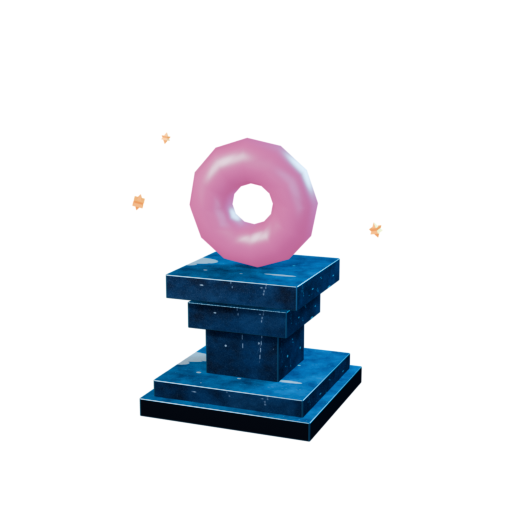
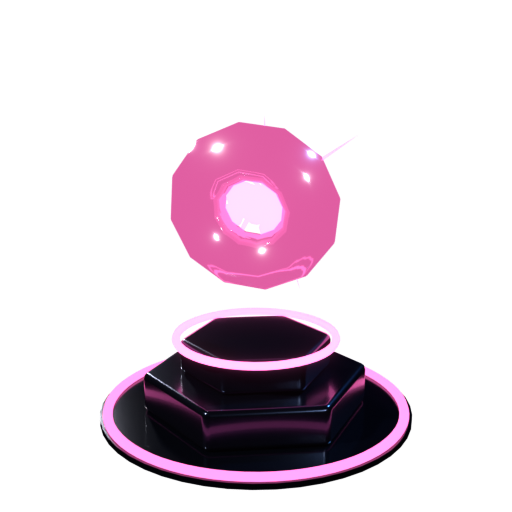
feat(ui): Hollywood-grade Blender assets + UX polish
- Re-rendered celebration/podium/trophy/fidget assets in Cycles GPU
  with glassy neon materials matching app theme (#22d3ee / #f472b6)
- Explosion burst fireworks behind winning mark
- Filled primary CTAs with press feedback across overlays
- Keep Hint/Undo visible but dimmed during AI inference (no layout shift)
- Fix AI stealing turn after background/foreground: null stale timer
  handles and guard runAITurn against human-turn resumes

diff --git a/mobile-rn/src/ui/screens/GameScreen.tsx b/mobile-rn/src/ui/screens/GameScreen.tsx
@@ -111,6 +111,7 @@ export function GameScreen() {
   const timerRef = useRef<ReturnType<typeof setTimeout> | null>(null)
   const configRef = useRef<GameConfig>(config)
   const appStateRef = useRef<AppStateStatus>(AppState.currentState)
+  const currentPlayerRef = useRef<Cell>(P1)
   const aiEpochRef = useRef(0)
   const inferenceInFlightRef = useRef(false)
   const resumeAiRef = useRef(false)
@@ -160,6 +161,12 @@ export function GameScreen() {
     [],
   )
 
+  // Mirror the turn into a ref so async AI paths can check it without
+  // closing over stale React state.
+  useEffect(() => {
+    currentPlayerRef.current = snap.currentPlayer
+  }, [snap.currentPlayer])
+
   // Let the winning line flash for ~1.6s, THEN reveal the result overlay.
   useEffect(() => {
     if (snap.over && !snap.demo) {
@@ -199,13 +206,18 @@ export function GameScreen() {
     }
     if (!boardRef.current || !engineRef.current) return
     if (overRef.current || thinkingRef.current) return
+    // Turn guard: never move while it's the human's turn (stale resume/timer).
+    if (!demoRef.current && currentPlayerRef.current === humanSideRef.current) return
     const epoch = aiEpochRef.current
     const aiSide: Cell = humanSideRef.current === P1 ? P2 : P1
     thinkingRef.current = true
     // Flash starts immediately (the cube breathes) — the human's mark already
     // rendered, and the inference runs in the background below.
     setSnap((prev) => (prev.thinking ? prev : { ...prev, thinking: true }))
-    if (timerRef.current) clearTimeout(timerRef.current)
+    if (timerRef.current) {
+      clearTimeout(timerRef.current)
+      timerRef.current = null
+    }
     const startedAt = Date.now()
     const board = boardRef.current
     if (!board) return
@@ -290,7 +302,10 @@ export function GameScreen() {
     if (overRef.current || !demoRef.current) return
     const side = turnRef.current
     const epoch = aiEpochRef.current
-    if (timerRef.current) clearTimeout(timerRef.current)
+    if (timerRef.current) {
+      clearTimeout(timerRef.current)
+      timerRef.current = null
+    }
     timerRef.current = setTimeout(async () => {
       try {
         if (appStateRef.current !== 'active' || epoch !== aiEpochRef.current) {
@@ -451,6 +466,7 @@ export function GameScreen() {
       thinkingRef.current = false
       demoRef.current = false
       movesRef.current = []
+      currentPlayerRef.current = P1 // X always opens
       setConfig(cfg)
       setEngineError(null)
       setPending(null)
@@ -548,8 +564,12 @@ export function GameScreen() {
     // Render the user's mark first, THEN start the AI inference — on larger
     // boards the render (instanced frame loop + pop-in) is the slow part, and
     // the placed mark should visibly land before the cube starts "thinking".
-    if (timerRef.current) clearTimeout(timerRef.current)
+    if (timerRef.current) {
+      clearTimeout(timerRef.current)
+      timerRef.current = null
+    }
     timerRef.current = setTimeout(() => {
+      timerRef.current = null
       runAITurn()
     }, 180)
   }, [pending, snap.currentPlayer, runAITurn, endGame])
@@ -581,7 +601,10 @@ export function GameScreen() {
     movesRef.current = hist.slice(0, lastHuman)
     aiSetBoard(board.cells)
     setNativeSnapshot(aiKnowledge(human))
-    if (timerRef.current) clearTimeout(timerRef.current)
+    if (timerRef.current) {
+      clearTimeout(timerRef.current)
+      timerRef.current = null
+    }
     overRef.current = false
     thinkingRef.current = false
     setPending(null)
@@ -710,14 +733,26 @@ const showHowTo = useCallback(
       {!snap.demo && !menuVisible && (
         <View style={[styles.bottomBar, { paddingBottom: insets.bottom }]}>
           <View style={styles.bottomActions}>
-            {!snap.over && snap.currentPlayer === config.humanSide && (
-              <Pressable onPress={onHint} style={[styles.iconBtn, styles.iconBtnHint]} hitSlop={8} testID="hint-btn">
-                <Text style={styles.iconBtnHintText}>Hint</Text>
+            {!snap.over && (
+              <Pressable
+                onPress={onHint}
+                disabled={!isHumanTurn}
+                style={[styles.iconBtn, styles.iconBtnHint, !isHumanTurn && styles.iconBtnDisabled]}
+                hitSlop={8}
+                testID="hint-btn"
+              >
+                <Text style={[styles.iconBtnHintText, !isHumanTurn && styles.iconBtnTextDisabled]}>Hint</Text>
               </Pressable>
             )}
-            {!snap.thinking && snap.movesPlayed.length > 0 && (
-              <Pressable onPress={onUndo} style={styles.iconBtn} hitSlop={8} testID="undo-btn">
-                <Text style={styles.iconBtnText}>Undo</Text>
+            {snap.movesPlayed.length > 0 && (
+              <Pressable
+                onPress={onUndo}
+                disabled={snap.thinking}
+                style={[styles.iconBtn, snap.thinking && styles.iconBtnDisabled]}
+                hitSlop={8}
+                testID="undo-btn"
+              >
+                <Text style={[styles.iconBtnText, snap.thinking && styles.iconBtnTextDisabled]}>Undo</Text>
               </Pressable>
             )}
             <Pressable onPress={openMenu} style={styles.iconBtn} hitSlop={8} testID="new-game-btn">
@@ -862,6 +897,12 @@ const styles = StyleSheet.create({
     fontWeight: '700',
     letterSpacing: 1,
     textTransform: 'uppercase',
+  },
+  iconBtnDisabled: {
+    opacity: 0.45,
+  },
+  iconBtnTextDisabled: {
+    color: Theme.muted,
   },
   debugBtn: {
     width: 34,

diff --git a/mobile-rn/src/ui/components/GameOverOverlay.tsx b/mobile-rn/src/ui/components/GameOverOverlay.tsx
@@ -24,7 +24,7 @@ export function GameOverOverlay({ winner, humanSide, onPlayAgain, onMenu }: Game
   const glow = useRef(new Animated.Value(0)).current
 
   useEffect(() => {
-    Animated.timing(enter, { toValue: 1, duration: 420, useNativeDriver: true }).start()
+    Animated.spring(enter, { toValue: 1, damping: 18, stiffness: 200, useNativeDriver: true }).start()
     const loop = Animated.loop(
       Animated.sequence([
         Animated.timing(glow, { toValue: 1, duration: 850, useNativeDriver: true }),
@@ -73,12 +73,17 @@ export function GameOverOverlay({ winner, humanSide, onPlayAgain, onMenu }: Game
         >
           {title}
         </Animated.Text>
-        <Pressable onPress={onPlayAgain} style={[styles.playBtn, { borderColor: accent }]}>
-          <Animated.Text style={[styles.playText, { color: accent, opacity: glowOpacity }]}>
-            PLAY AGAIN
-          </Animated.Text>
+        <Pressable
+          onPress={onPlayAgain}
+          style={({ pressed }) => [
+            styles.playBtn,
+            { backgroundColor: accent, shadowColor: accent },
+            pressed && styles.playBtnPressed,
+          ]}
+        >
+          <Text style={styles.playText}>PLAY AGAIN</Text>
         </Pressable>
-        <Pressable onPress={onMenu} style={styles.menuLink}>
+        <Pressable onPress={onMenu} style={({ pressed }) => [styles.menuLink, pressed && { opacity: 0.6 }]}>
           <Text style={styles.menuText}>MENU</Text>
         </Pressable>
       </Animated.View>
@@ -137,12 +142,20 @@ const styles = StyleSheet.create({
     paddingVertical: spacing(3.5),
     paddingHorizontal: spacing(12),
     borderRadius: radius(6),
-    borderWidth: 2,
     alignItems: 'center',
+    shadowOffset: { width: 0, height: 0 },
+    shadowOpacity: 0.55,
+    shadowRadius: 18,
+    elevation: 10,
+  },
+  playBtnPressed: {
+    opacity: 0.85,
+    transform: [{ scale: 0.97 }],
   },
   playText: {
+    color: Theme.bg,
     fontSize: fontSize(15),
-    fontWeight: '800',
+    fontWeight: '900',
     letterSpacing: 2,
   },
   menuLink: {

diff --git a/mobile-rn/src/ui/components/WelcomeOverlay.tsx b/mobile-rn/src/ui/components/WelcomeOverlay.tsx
@@ -121,21 +121,22 @@ const styles = StyleSheet.create({
     paddingVertical: spacing(3.5),
     paddingHorizontal: spacing(10),
     borderRadius: radius(4),
-    borderWidth: 2,
-    borderColor: Theme.cyan,
+    backgroundColor: Theme.cyan,
     alignItems: 'center',
     shadowColor: Theme.cyan,
     shadowOffset: { width: 0, height: 0 },
-    shadowOpacity: 0.4,
-    shadowRadius: 12,
+    shadowOpacity: 0.55,
+    shadowRadius: 16,
+    elevation: 10,
   },
   startBtnPressed: {
-    backgroundColor: Theme.cyan,
+    opacity: 0.85,
+    transform: [{ scale: 0.98 }],
   },
   startBtnText: {
-    color: Theme.cyan,
+    color: Theme.bg,
     fontSize: fontSize(15),
-    fontWeight: '800',
+    fontWeight: '900',
     letterSpacing: 2,
     textTransform: 'uppercase',
   },

diff --git a/mobile-rn/src/ui/components/MenuSheet.tsx b/mobile-rn/src/ui/components/MenuSheet.tsx
@@ -371,21 +371,22 @@ const styles = StyleSheet.create({
     marginTop: spacing(5),
     paddingVertical: spacing(3.5),
     borderRadius: radius(4),
-    borderWidth: 2,
-    borderColor: Theme.cyan,
+    backgroundColor: Theme.cyan,
     alignItems: 'center',
     shadowColor: Theme.cyan,
     shadowOffset: { width: 0, height: 0 },
-    shadowOpacity: 0.4,
-    shadowRadius: 12,
+    shadowOpacity: 0.55,
+    shadowRadius: 16,
+    elevation: 10,
   },
   startBtnPressed: {
-    backgroundColor: Theme.cyan,
+    opacity: 0.85,
+    transform: [{ scale: 0.98 }],
   },
   startBtnText: {
-    color: Theme.cyan,
+    color: Theme.bg,
     fontSize: fontSize(16),
-    fontWeight: '800',
+    fontWeight: '900',
     letterSpacing: 3,
     textTransform: 'uppercase',
   },
